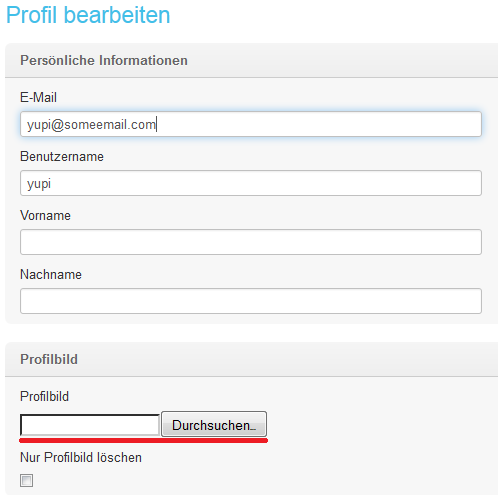
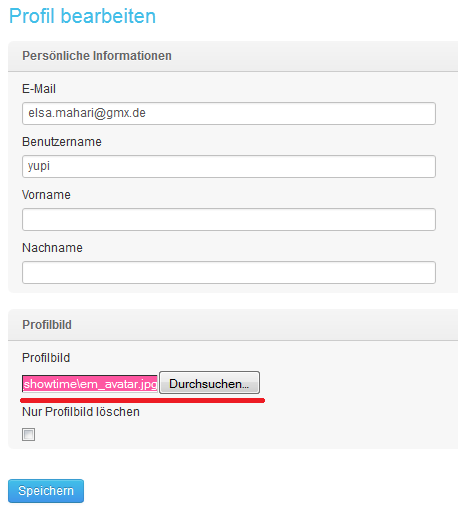
added picture for report form

Changed region(s): [[0.0, 0.0909, 0.9782, 1.0], [0.0, 0.0, 0.3362, 0.0606], [0.9476, 0.5758, 0.9782, 0.6061]]

diff --git a/part-2/parts/features.tex b/part-2/parts/features.tex
@@ -5,7 +5,7 @@
 \input{parts/features/fragments}
 
 \section{User avatar}
-With the `User avatar' the user gets the possibility to upload a picture to his own profile. Through the function `Profil edititieren'  the user gets to the `Profil editieren' form. 
+With the `User avatar' the user gets the possibility to upload a picture to his own profile. Through the function \textit{Profil edititieren}  the user gets to the \textit{Profil editieren} form. 
 \pagebreak
 
 \begin{figure}[!h]
@@ -30,6 +30,19 @@ The uploader in this form allows the user to upload a picture as his avatar.
   \label{fig:profil_editieren_uploader}
 \end{figure}
 
+\pagebreak
+
+After the avatar picture is uploaded the profile picture will be changed.
+
+\begin{figure}[!h]
+  \centering
+  \fbox{
+    \includegraphics[width=0.97\textwidth]{images/profil_editieren_avatar.png}
+  }
+  \caption{profile avatar picture}
+  \label{fig:profil_editieren_avatar}
+\end{figure}
+
 
 \input{parts/features/avatar}
 
@@ -39,27 +52,173 @@ The uploader in this form allows the user to upload a picture as his avatar.
 
 \input{parts/features/barcode}
 
+\pagebreak
+
 \section{Report}
 
-The report is needed to collect and document all the found plagiarized fragments of the reviewed document. It will be used as an evidence proof.
+The report is needed to collect and document all the found plagiarized fragments of the reviewed document. It will be used as an evidence to proof (major) plagiarism.
 The report documents all founded plagiarized parts including the corresponding sources.
 
-The report has also a barcode on the first page to give the reader a quick visuell overview to the plagiarization level of the reviewed document.
+The report has also a barcode on the first page to give the reader a quick visuell overview to the plagiarism level of the reviewed document.
 
-Below you can see the generation and the outlook of an example of a report.
+Below you can read about the generation of a report, a short description of the development and the outlook of an example of a report.
 
-\subsection{Generating of a Report}
+\subsection{Generating of a report}
 
 To generate a report it is neccessary that there exist approved fragments for this case. Without approved fragments in a case it is not possible to generate a report for this case. 
 This is made to have only approved fragments listed in the report. This makes sure that only real plagiarized textparts are listed in the report.
 
-To generate a report the user needs to choose the tab `Berichte' and than click at the button `Bericht erstellen'. After the user clicked at the  button `Bericht erstellen' it has the possibility to fill up the report form to give the title of the report and to give some evaluations about the reviewed document.
+To generate a report the user needs to choose the tab \textit{Berichte} and than click at the button \textit{Bericht erstellen}. After the user clicked at the  button \textit{Bericht erstellen} it has the possibility to fill up the report form to give the title of the report and to give some evaluations about the reviewed document.
 
-After the user saved the entries of the form the report will be generated and the report will be listed.
+\begin{figure}[!h]
+  \centering
+  \fbox{
+    \includegraphics[width=0.97\textwidth]{images/report_form.jpg}
+  }
+  \caption{report form}
+  \label{fig:report_form}
+\end{figure}
 
-\subsection{Outlook of a Report}
+\pagebreak
 
-The report has besides his first page, three different parts. The evaluation text, the list of approved fragments and the references to the sources.
+After the user saved the entries of the form the report will be generated and will be listed.
+
+\begin{figure}[!h]
+  \centering
+  \fbox{
+    \includegraphics[width=0.97\textwidth]{images/report_list.png}
+  }
+  \caption{example of a listed report}
+  \label{fig:report_list}
+\end{figure}
+
+\subsection{The developing of the report function}
+
+Before the start of the actual development of the report function, it was necessary to first make researches about pdf generation frameworks. After some researches and hints from unplagged group members the decision felt to \textit{dompdf}. 
+
+\subsubsection{Dompdf}
+
+\textit{Dompdf} is an easy to use framework which gives users the posibility to generate pfd files dynamically. After the familiarisation phase it was not difficult to use this framework to generate the first report in pdf form. \textit{Dompdf} had problems with pagebreaks. Reasons were for example that it could not handle it if the content between two \textit{div tags} or a \textit{table cell} was longer than one page.
+But there was another big disadvantage of \textit{dompdf}, it was not possible to represent the fragments in column form. It was only possible to show the fragments on the generated report among one another. This was a known problem of \textit{dompdf}.
+
+After a lot of tryings to code workarounds and make researches in forum, it was obvious that there was no way to make the column representing that we needed for the fragments view, that will be shown in the report, with the \textit{dompdf} framework. At the end it was necessary to make that not easy decision to pass on \textit{dompdf} and to find a framework that suits our needs better.
+So another research round was necessary this time we knew better what we were searching for. First of all a framework which can handle column representation.
+
+Because of this and some other reasons the report generating framework \textit{html2pdf} is used.
+
+\subsubsection{Html2pdf}
+
+\textit{Html2pdf} is the choosed framework for the report generation. The big advantage of \textit{html2pdf} was that it gives the possibility to show the fragments in column form. Another big advantage is that with \textit{html2pdf} it is possible to add svg to the generated pdf file. The svg possibility was necessary to add the barcode in the report which was generated as svg.
+
+For the barcode generation of the report the following code is used.
+
+\begin{lstlisting}[caption=Generating the barcode for the report]
+  private function getBarCode($case) {
+        $str_svg = $case->getBarcode(80, 150, 100, false, '%')->render();
+        $str_svg = str_replace('svg', 'draw', $str_svg);
+        $str_svg = str_replace('width=', 'w=', $str_svg);
+        $str_svg = str_replace('height=', 'h=', $str_svg);
+
+        return "<h2>Barcode</h2>" . $str_svg;
+    }
+\end{lstlisting}
+
+The pagenumbers are written in the footer. The pagenumbers are generated with the following code.
+
+\begin{lstlisting}[caption=Generating the pagenumbers]
+    private function getFooter($pagenumber) {
+        return "<page_footer>" . $pagenumber . "/%pagenumber%</page_footer> ";
+    }
+\end{lstlisting}
+
+The class use of \textit{html2pdf} is shown below.
+
+\begin{lstlisting}[caption=Use of the class html2pdf]
+        $html2pdf = new HTML2PDF('P', 'A4', 'en');
+        $html2pdf->WriteHTML($content);
+\end{lstlisting}
+
+The following code is a workaround. This workaround is necessary because \textit{html2pdf} has pagebreak problems. This problem was also found in \textit{dompdf}. This problem was not so easy to solve than thought at the beginning. The problem here is that  \textit{html2pdf} needs always proper and valid html content. From this content the pdf file will be generated. Valid html content means also that all html tags need to be closed. 
+
+For the coloured simtext passages span tags are used. This span tags contains the plagiarized text.If the content of the span tags are seperated in two or more pages than the span tag can not be closed within one page. Than for \textit{html2pdf} it is not valid html anymore and \textit{html2pdf} refuses to generate the pdf file.
+
+The workaround limits the words which will be written in one page of 400 words, if there is a span tag which is not closed it will be closed then.
+
+\begin{lstlisting}[caption=Workaround for the \textit{html2pdf} pagebreak problem]
+   /**
+     * Removes the multiple blank spaces from the given parameter.
+     */
+    private function remove_spaces($text) {
+        while (true) {
+            $replaced = str_replace('  ', ' ', $text);
+            if ($replaced != $text) {
+                $text = $replaced;
+            } else {
+                break;
+            }
+        }
+        return $text;
+    }
+
+ /**
+     * Cuts the given text into an array, which each element contains
+     * $nbWordsProPage words.
+     */
+    private function cut_text_into_pages($text) {
+        $text = $this->remove_spaces($text);
+        $exploded = array_slice(explode(' ', $text), 0);
+        $nbWordsProPage = 400;
+        $nbPage = 0;
+        $pages = array();
+        $rest = "";
+        $nbRest = 0;
+
+        for ($i = 0; $i < sizeof($exploded); $i+=$nbWordsProPage) {
+            $page = $rest . implode(' ', array_slice($exploded, $i, $nbWordsProPage - $nbRest));
+            $result = $this->check($page);
+            $rest = $result["toRetrieve"] . " ";
+            $nbRest = str_word_count($rest);
+            $pages[$nbPage++] = $result["s"];
+        }
+
+        return $pages;
+    }
+
+    private function result($length, $s) {
+        $array = array();
+        $array["toRetrieve"] = substr($s, $length, strlen($s) - $length);
+        $array["s"] = substr($s, 0, $length);
+        $array["original"] = $s;
+        return $array;
+    }
+
+    private function check($s) {
+        $nbST = substr_count($s, ST);
+        $nbBT = substr_count($s, GT);
+        if ($nbST == $nbBT) {
+            $nbSpanOpen = substr_count($s, SPAN_OPEN);
+            $nbSpanClose = substr_count($s, SPAN_CLOSE);
+            if ($nbSpanOpen == $nbSpanClose) {
+                return $this->result(strlen($s), $s);
+            } else {
+                // 'halli hallo <span>'
+                return $this->result(strrpos($s, SPAN_OPEN), $s);
+            }
+        } else {
+            // one tag is not closed
+            //'halli hallofff <span></span'
+            //'halli hallofff <span'
+            $nbSpanOpen = substr_count($s, SPAN_OPEN);
+            $nbSpanClose = substr_count($s, SPAN_CLOSE);
+
+            return $this->result(strrpos($s, SPAN_OPEN), $s);
+        }
+    }
+\end{lstlisting}
+
+\subsection{Outlook of a report}
+
+The report has besides his first page, three further parts. The evaluation text, the list of approved fragments and the references to the according sources.
 
 \begin{figure}[!h]
   \centering
@@ -70,7 +229,22 @@ The report has besides his first page, three different parts. The evaluation tex
   \label{fig:report_deckblatt}
 \end{figure}
 
-The evaluation text is individual text which was given from the person who generated the report through the report form.
+\pagebreak
+
+The defaulttext also can contain evalutiontext, this is individual text which was given from the person who generated the report through the report form.
+\pagebreak
+
+Below there is an example of the defaulttext.
+
+\begin{figure}[!h]
+  \centering
+  \fbox{
+    \includegraphics[width=0.97\textwidth]{images/report_default_evaluation_text.jpg}
+  }
+  \caption{report defaulttext}
+  \label{fig:report_default_evaluation_tex}
+\end{figure}
+\pagebreak
 
 After the evaluation text the list of approved fragments will be shown.
 
@@ -83,11 +257,17 @@ After the evaluation text the list of approved fragments will be shown.
   \label{fig:report_fragment}
 \end{figure}
 
-At the end all the references to the found textsources is mentioned.
-
 \pagebreak
+At the end all the references to the found sources are mentioned.
 
-\pagebreak
+\begin{figure}[!h]
+  \centering
+  \fbox{
+    \includegraphics[width=0.97\textwidth]{images/report_according_sources.jpg}
+  }
+  \caption{example of a listed source}
+  \label{fig:report_according_sources}
+\end{figure}
 
 \pagebreak
 

diff --git a/part-2/parts/showtime.tex b/part-2/parts/showtime.tex
@@ -6,6 +6,8 @@ Before the showtime was beginning a lot of planning was necessary. From the actu
 \section{Paperwork}
 At the beginning it was necessary to make a first concept of the brochure and posters for the unplagged exhibition stand.
 
+\pagebreak
+
 \subsection{Brochure}
 The first concept of the brochure was kind of a sketch.
 
@@ -17,7 +19,7 @@ The first concept of the brochure was kind of a sketch.
   \caption{the first concept of the brochure}
   \label{fig:brochure_sketch}
 \end{figure}
-
+\pagebreak
 Below is the final outlook of the brochure.
 
 \begin{figure}[!h]
